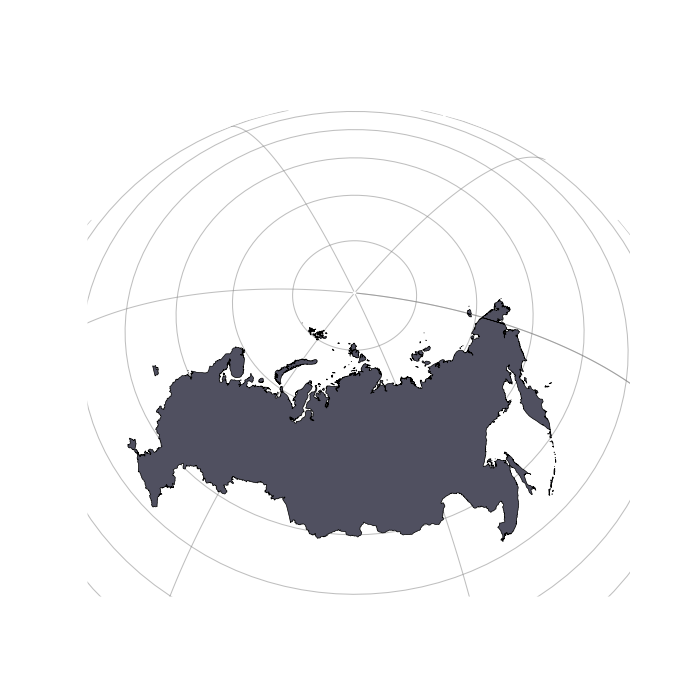
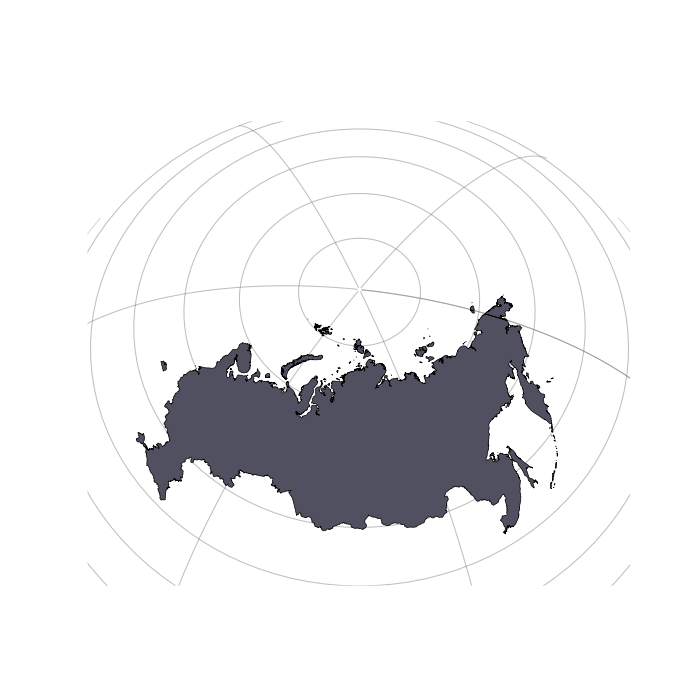
refactor: Update country border code for auto-update, manual update, and simple plotting

diff --git a/country_border_generator/GeojsonToOrthographicProjection.py b/country_border_generator/GeojsonToOrthographicProjection.py
@@ -1,3 +1,11 @@
+from unidecode import unidecode
+import geopandas as gpd
+import pandas as pd
+import os
+
+country_folder = "Flagdle/assets/country"
+continents = os.listdir(country_folder)
+
 def create_projection(country_gdf, padding=0.05):
     """
     Create an Orthographic projection centered on the country's centroid
@@ -13,10 +21,12 @@ def create_projection(country_gdf, padding=0.05):
     """
     import cartopy.crs as ccrs
     country_shape = country_gdf.dissolve()
+    country_shape = gpd.GeoSeries(country_shape.geometry.unary_union)
     center = country_shape.geometry.centroid.iloc[0]
     central_longitude, central_latitude = center.x, center.y
 
     minx, miny, maxx, maxy = country_gdf.geometry.total_bounds
+    print(f"\n❕ Extent :\n\tminX : {minx:.2f}\n\tmaxX : {maxx:.2f}\n\tminY : {miny:.2f}\n\tmaxY : {maxy:.2f}")
     
     # Calculate padding based on the size of the country
     x_padding = (maxx - minx) * padding
@@ -27,6 +37,15 @@ def create_projection(country_gdf, padding=0.05):
     miny -= y_padding
     maxx += x_padding
     maxy += y_padding
+
+    minx = max(minx,-180)
+    miny = max(miny,-90)
+    maxx = min(maxx, 180)
+    maxy = min(maxy, 90)
+
+    # central_latitude = (miny + maxy) / 2
+
+    print(f"\n❕ Padded Extent :\n\tminX : {minx:.2f}\n\tmaxX : {maxx:.2f}\n\tminY : {miny:.2f}\n\tmaxY : {maxy:.2f}")
 
     projection = ccrs.Orthographic(central_longitude=central_longitude, central_latitude=central_latitude)
     
@@ -44,9 +63,29 @@ def filter_country_gdf(local_gdf, country_name:str, laguage='en'):
     - A tuple containing the filtered GeoDataFrame containing only the specified country's data
       and the full name of the country.
     """
-    from unidecode import unidecode
     if country_name == '':
         return False, False
+
+    if country_name in continents:
+        print(f"🔄 Listing all countries in {country_name}")
+        world_gdf = local_gdf
+        continent_name = country_name
+        # loop through the countries of each continent in country_path
+        continent_gdf = []
+        for country in os.listdir(f"{country_folder}/{continent_name}"):
+            if country == "icon.png":
+                continue
+            # add each country's gdf to the continent_gdf
+            country_gdf, country_full_name = filter_country_gdf(world_gdf, country.split('.')[0])
+            if country_full_name != False:
+                print(f"\t- Adding {country_full_name} to {continent_name}...")
+                continent_gdf.append(country_gdf)
+            else:
+                print(f"\t-❌ {country} not found in the world")
+
+        continent_gdf = gpd.GeoDataFrame(pd.concat(continent_gdf, ignore_index=True))
+
+        return continent_gdf, continent_name
     try:
         country_input = unidecode(country_name.lower())  # Normalize input name
         
@@ -70,3 +109,9 @@ def filter_country_gdf(local_gdf, country_name:str, laguage='en'):
         return filtered_gdf, full_name
     except:
         return False, False
+
+"""
+❌ Failed to update:
+        - Amerique > Les Bahamas
+        - Europe > Republique Tchèque
+"""

diff --git a/country_border_generator/country_border_updater.py b/country_border_generator/country_border_updater.py
@@ -1,4 +1,5 @@
 import cartopy.crs as ccrs
+import pandas as pd
 import geopandas as gpd
 import matplotlib.pyplot as plt
 import os
@@ -9,15 +10,19 @@ print("\n🔄 Loading country data...")
 World_gdf = gpd.read_file('country_border_generator/custom.geojson')
 country_folder = "Flagdle/assets/country"
 
+# list continents in country_folder
+continents = gtop.continents
+
 # retrieve the languages from the GeoDataFrame
 languages = [col.split('_')[1] for col in World_gdf.columns if col.startswith('name_')]
 
-def CountryName_to_png(country_name:str, save_path=''):
+def CountryName_to_png(country_name:str, save_path='', gdf=World_gdf):
     """
     Given a <country_name>, create an image of the country centered on the country's centroid.\n
     If <save_path> is specified, save the image to the path.
     Else, display the image.
     """
+    print(f"\n🔄 Searching for '{country_name}'...")
     country_gdf, country_name = gtop.filter_country_gdf(World_gdf, country_name)
 
     if country_name == False:
@@ -28,11 +33,11 @@ def CountryName_to_png(country_name:str, save_path=''):
         print("Country not found.")
         return False
 
-    if save_path == '': print(f"🔄 Plotting {country_name}...\n")
+    if save_path == '': print(f"\n🔄 Plotting {country_name}...\n")
 
     projection, (minx, maxx, miny, maxy), (central_longitude, central_latitude) = gtop.create_projection(country_gdf)
 
-    print(f"❕ Center coordinates of {country_name}: {central_longitude}, {central_latitude}")
+    print(f"\n❕ Center coordinates of {country_name}: {central_longitude:2f}, {central_latitude:2f}")
     
     fig = plt.figure(figsize=(7, 7))
     ax = fig.add_subplot(1, 1, 1, projection=projection)
@@ -67,7 +72,7 @@ def print_country_names(language:str):
     """
     for name in sorted(World_gdf[f'name_{language}']):
         print(f"\t- {name}")
-    
+
 def auto_update_countries(country_folder:str):
     """
     Given a country folder, update the country borders of the images in the folder.
@@ -81,10 +86,14 @@ def auto_update_countries(country_folder:str):
         
         for image in os.listdir(os.path.join(country_folder, folder)):
             country_name = image.split(".")[0]
-            save_path = os.path.join(country_folder, folder, image)
+            
             
             print(f"\n🔄 Updating {country_name}...")
-
+            if country_name == "icon":
+                country_name = folder
+                image = "icon.png"
+                
+            save_path = os.path.join(country_folder, folder, image)
             if CountryName_to_png(country_name, save_path):
                 print(f"✅ Updated {country_name}")
             else :
